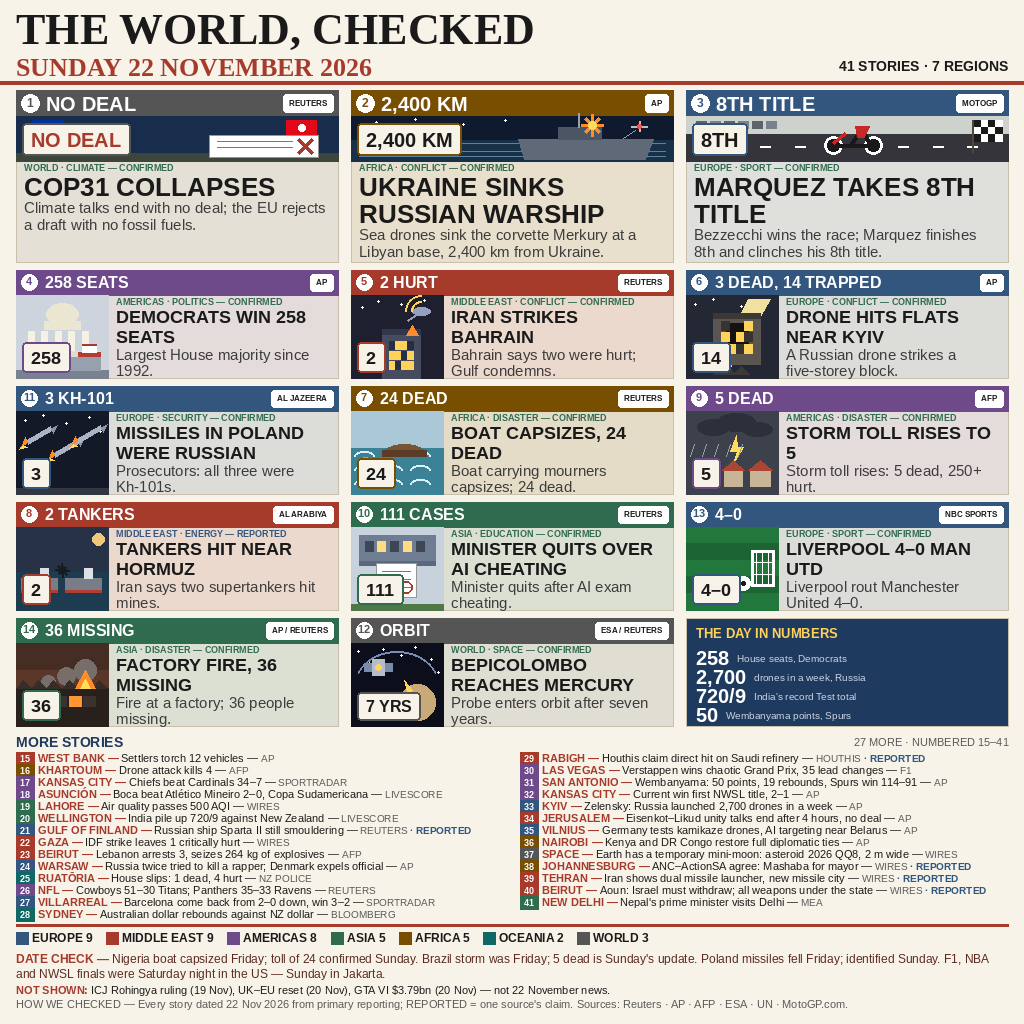
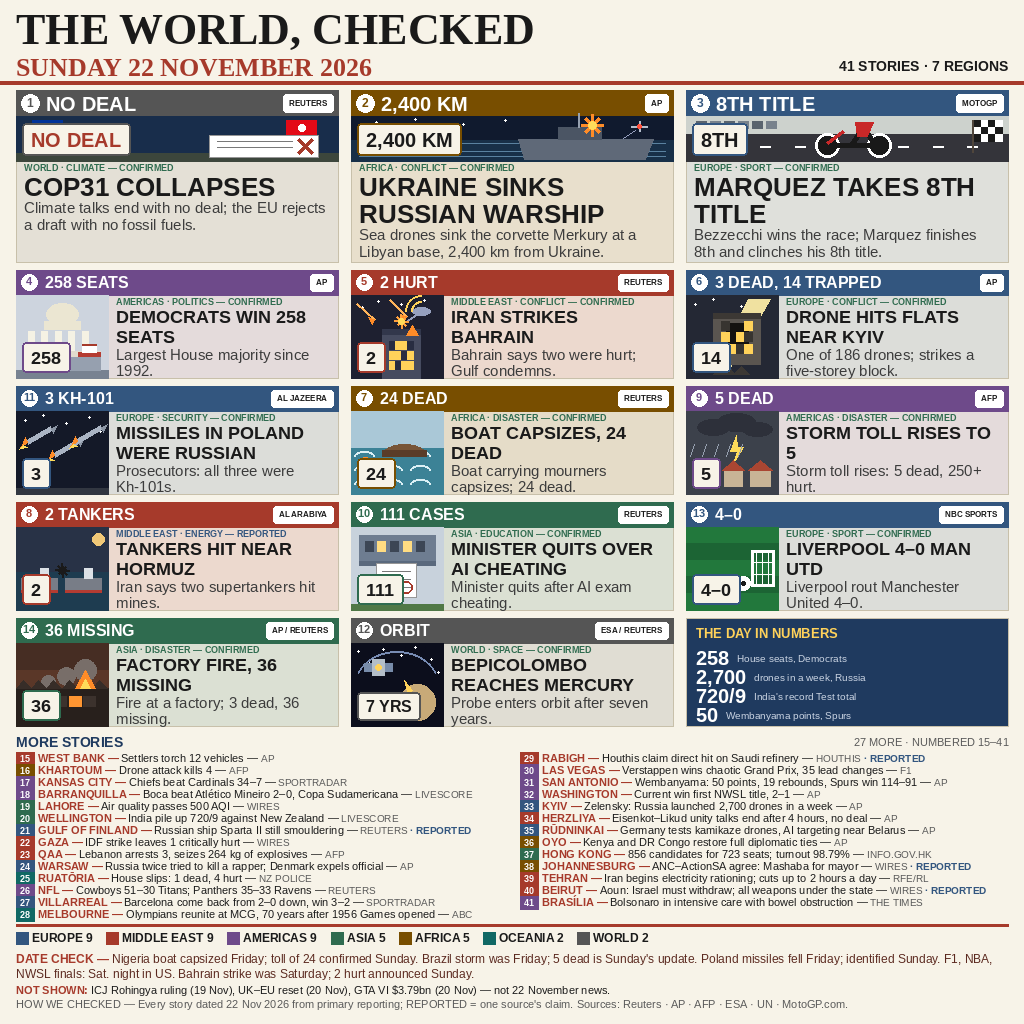
Putaran 1 V1-fresh: 6 label kota diperbaiki, 4 swap konsensus rank 1-3, DATE CHECK Bahrain, 3 dead Cikande, 186 drone

diff --git a/render.py b/render.py
@@ -13,10 +13,10 @@ Layout (NEW, unlike rank 1-3 and unlike V1):
   footer: region strip + DATE CHECK + NOT SHOWN + HOW WE CHECKED.
 No map, no timeline strip, no big-number strip (all three were in V1
 and in rank 1-3). 41 verified stories, from notes/sumber-V1fresh.md.
-Region counts counted from the per-story Wil column of that file:
-EU 9, ME 9, AM 8, AS 5, AF 5, OC 2, WORLD 3 (its summary line says
-EU 10 / WORLD 2; the per-row table is the primary data, so the strip
-prints the counted 9 / 3 and the discrepancy is noted in STORIES.md).
+Region counts counted from the per-story Wil column of that file
+(putaran 1: EU 9, ME 9, AM 9, AS 5, AF 5, OC 2, WORLD 2 — swaps #37
+WORLD->AS and #41 AS->AM; the old summary line EU 9 / WORLD 3 is
+superseded, see STORIES.md).
 """
 import os
 import sys
@@ -152,7 +152,7 @@ GRID = [
     {"n": 6, "region": "EU", "place": "DYMER",
      "title": "DRONE HITS FLATS NEAR KYIV", "value": "3 DEAD, 14 TRAPPED",
      "num": "14", "field": "CONFLICT", "status": "CONFIRMED", "source": "AP",
-     "summary": "A Russian drone strikes a five-storey block.", "art": "dymer"},
+     "summary": "One of 186 drones; strikes a five-storey block.", "art": "dymer"},
     {"n": 11, "region": "EU", "place": "LUBLIN",
      "title": "MISSILES IN POLAND WERE RUSSIAN", "value": "3 KH-101",
      "num": "3", "field": "SECURITY", "status": "CONFIRMED",
@@ -182,7 +182,7 @@ GRID = [
     {"n": 14, "region": "AS", "place": "CIKANDE",
      "title": "FACTORY FIRE, 36 MISSING", "value": "36 MISSING", "num": "36",
      "field": "DISASTER", "status": "CONFIRMED", "source": "AP / REUTERS",
-     "summary": "Fire at a factory; 36 people missing.", "art": "cikande"},
+     "summary": "Fire at a factory; 3 dead, 36 missing.", "art": "cikande"},
     {"n": 12, "region": "WORLD", "place": "MERCURY",
      "title": "BEPICOLOMBO REACHES MERCURY", "value": "ORBIT", "num": "7 YRS",
      "field": "SPACE", "status": "CONFIRMED", "source": "ESA / REUTERS",
@@ -198,7 +198,7 @@ BRIEFS = [
      "fact": "Drone attack kills 4", "source": "AFP", "status": "CONFIRMED"},
     {"n": 17, "region": "AM", "city": "KANSAS CITY",
      "fact": "Chiefs beat Cardinals 34–7", "source": "SPORTRADAR", "status": "CONFIRMED"},
-    {"n": 18, "region": "AM", "city": "ASUNCIÓN",
+    {"n": 18, "region": "AM", "city": "BARRANQUILLA",
      "fact": "Boca beat Atlético Mineiro 2–0, Copa Sudamericana",
      "source": "LIVESCORE", "status": "CONFIRMED"},
     {"n": 19, "region": "AS", "city": "LAHORE",
@@ -212,7 +212,7 @@ BRIEFS = [
     {"n": 22, "region": "ME", "city": "GAZA",
      "fact": "IDF strike leaves 1 critically hurt", "source": "WIRES",
      "status": "CONFIRMED"},
-    {"n": 23, "region": "ME", "city": "BEIRUT",
+    {"n": 23, "region": "ME", "city": "QAA",
      "fact": "Lebanon arrests 3, seizes 264 kg of explosives", "source": "AFP",
      "status": "CONFIRMED"},
     {"n": 24, "region": "EU", "city": "WARSAW",
@@ -227,9 +227,9 @@ BRIEFS = [
     {"n": 27, "region": "EU", "city": "VILLARREAL",
      "fact": "Barcelona come back from 2–0 down, win 3–2", "source": "SPORTRADAR",
      "status": "CONFIRMED"},
-    {"n": 28, "region": "OC", "city": "SYDNEY",
-     "fact": "Australian dollar rebounds against NZ dollar", "source": "BLOOMBERG",
-     "status": "CONFIRMED"},
+    {"n": 28, "region": "OC", "city": "MELBOURNE",
+     "fact": "Olympians reunite at MCG, 70 years after 1956 Games opened",
+     "source": "ABC", "status": "CONFIRMED"},
     {"n": 29, "region": "ME", "city": "RABIGH",
      "fact": "Houthis claim direct hit on Saudi refinery", "source": "HOUTHIS",
      "status": "REPORTED"},
@@ -239,36 +239,36 @@ BRIEFS = [
     {"n": 31, "region": "AM", "city": "SAN ANTONIO",
      "fact": "Wembanyama: 50 points, 19 rebounds, Spurs win 114–91",
      "source": "AP", "status": "CONFIRMED"},
-    {"n": 32, "region": "AM", "city": "KANSAS CITY",
+    {"n": 32, "region": "AM", "city": "WASHINGTON",
      "fact": "Current win first NWSL title, 2–1", "source": "AP",
      "status": "CONFIRMED"},
     {"n": 33, "region": "EU", "city": "KYIV",
      "fact": "Zelensky: Russia launched 2,700 drones in a week", "source": "AP",
      "status": "CONFIRMED"},
-    {"n": 34, "region": "ME", "city": "JERUSALEM",
+    {"n": 34, "region": "ME", "city": "HERZLIYA",
      "fact": "Eisenkot–Likud unity talks end after 4 hours, no deal",
      "source": "AP", "status": "CONFIRMED"},
-    {"n": 35, "region": "EU", "city": "VILNIUS",
+    {"n": 35, "region": "EU", "city": "RŪDNINKAI",
      "fact": "Germany tests kamikaze drones, AI targeting near Belarus",
      "source": "AP", "status": "CONFIRMED"},
-    {"n": 36, "region": "AF", "city": "NAIROBI",
+    {"n": 36, "region": "AF", "city": "OYO",
      "fact": "Kenya and DR Congo restore full diplomatic ties", "source": "AP",
      "status": "CONFIRMED"},
-    {"n": 37, "region": "WORLD", "city": "SPACE",
-     "fact": "Earth has a temporary mini-moon: asteroid 2026 QQ8, 2 m wide",
-     "source": "WIRES", "status": "CONFIRMED"},
+    {"n": 37, "region": "AS", "city": "HONG KONG",
+     "fact": "856 candidates for 723 seats; turnout 98.79%",
+     "source": "INFO.GOV.HK", "status": "CONFIRMED"},
     {"n": 38, "region": "AF", "city": "JOHANNESBURG",
      "fact": "ANC–ActionSA agree: Mashaba for mayor",
      "source": "WIRES", "status": "REPORTED"},
     {"n": 39, "region": "ME", "city": "TEHRAN",
-     "fact": "Iran shows dual missile launcher, new missile city",
-     "source": "WIRES", "status": "REPORTED"},
+     "fact": "Iran begins electricity rationing; cuts up to 2 hours a day",
+     "source": "RFE/RL", "status": "CONFIRMED"},
     {"n": 40, "region": "ME", "city": "BEIRUT",
      "fact": "Aoun: Israel must withdraw; all weapons under the state",
      "source": "WIRES", "status": "REPORTED"},
-    {"n": 41, "region": "AS", "city": "NEW DELHI",
-     "fact": "Nepal's prime minister visits Delhi", "source": "MEA",
-     "status": "CONFIRMED"},
+    {"n": 41, "region": "AM", "city": "BRASÍLIA",
+     "fact": "Bolsonaro in intensive care with bowel obstruction",
+     "source": "THE TIMES", "status": "CONFIRMED"},
 ]
 
 PANEL = [("258", "House seats, Democrats"),
@@ -276,13 +276,14 @@ PANEL = [("258", "House seats, Democrats"),
          ("720/9", "India's record Test total"),
          ("50", "Wembanyama points, Spurs")]
 
-REGION_COUNTS = {"EU": 9, "ME": 9, "AM": 8, "AS": 5, "AF": 5, "OC": 2,
-                 "WORLD": 3}
+REGION_COUNTS = {"EU": 9, "ME": 9, "AM": 9, "AS": 5, "AF": 5, "OC": 2,
+                 "WORLD": 2}
 
 DATECHECK = ("DATE CHECK — Nigeria boat capsized Friday; toll of 24 confirmed "
              "Sunday. Brazil storm was Friday; 5 dead is Sunday's update. "
-             "Poland missiles fell Friday; identified Sunday. F1, NBA and "
-             "NWSL finals were Saturday night in the US — Sunday in Jakarta.")
+             "Poland missiles fell Friday; identified Sunday. F1, NBA, NWSL "
+             "finals: Sat. night in US. Bahrain strike was Saturday; 2 hurt "
+             "announced Sunday.")
 NOTSHOWN = ("NOT SHOWN: ICJ Rohingya ruling (19 Nov), UK–EU reset (20 Nov), "
             "GTA VI $3.79bn (20 Nov) — not 22 November news.")
 HOWCHECKED = ("HOW WE CHECKED — Every story dated 22 Nov 2026 from primary "
@@ -405,16 +406,18 @@ def paint_marquez(draw, box, st):
         lx = x0 + 6 + i * (w - 12) // 9
         draw.line([lx, y0 + int(h * 0.68), lx + 10, y0 + int(h * 0.68)],
                   fill=WHITE, width=2)
+    # Putaran 1: bike enlarged (wheels r 9 -> 12, wheelbase 40 -> 52)
+    # so the bike reads at card size; rider still never drawn.
     bx, by = x0 + int(w * 0.52), y0 + int(h * 0.66)
-    for wx in (bx - 20, bx + 20):
-        draw.ellipse([wx - 9, by - 9, wx + 9, by + 9], fill=(25, 25, 25),
+    for wx in (bx - 26, bx + 26):
+        draw.ellipse([wx - 12, by - 12, wx + 12, by + 12], fill=(25, 25, 25),
                      outline=WHITE, width=3)
-    draw.line([bx - 20, by, bx + 20, by], fill=(25, 25, 25), width=4)
-    draw.line([bx - 2, by, bx + 8, by - 15], fill=(25, 25, 25), width=4)
-    draw.line([bx + 8, by - 15, bx + 17, by], fill=(25, 25, 25), width=4)
-    draw.polygon([(bx + 2, by - 19), (bx + 16, by - 19), (bx + 11, by - 8),
-                  (bx + 4, by - 8)], fill=(200, 40, 40))
-    draw.line([bx - 20, by - 2, bx - 8, by - 12], fill=(200, 40, 40), width=3)
+    draw.line([bx - 26, by, bx + 26, by], fill=(25, 25, 25), width=5)
+    draw.line([bx - 2, by, bx + 10, by - 18], fill=(25, 25, 25), width=5)
+    draw.line([bx + 10, by - 18, bx + 22, by], fill=(25, 25, 25), width=5)
+    draw.polygon([(bx + 2, by - 23), (bx + 20, by - 23), (bx + 14, by - 9),
+                  (bx + 4, by - 9)], fill=(200, 40, 40))
+    draw.line([bx - 26, by - 2, bx - 10, by - 14], fill=(200, 40, 40), width=3)
     fx = x1 - 36
     draw.line([fx, y0 + 4, fx, y0 + 36], fill=(80, 70, 60), width=2)
     for r in range(3):
@@ -449,6 +452,23 @@ def paint_bahrain(draw, box, st):
     for r in (10, 16):
         draw.arc([dx - r, dy - r, dx + r, dy + r], start=180, end=270,
                  fill=(255, 210, 90), width=2)
+    # Putaran 1: two missile trails in the sky + an impact burst above
+    # the roof, so the strike reads as an attack, not just a night city.
+    import math
+    for (mx0, my0, mx1, my1) in ((0.06, 0.10, 0.26, 0.30),
+                                 (0.42, 0.06, 0.60, 0.26)):
+        draw.line([x0 + w * mx0, y0 + h * my0, x0 + w * mx1, y0 + h * my1],
+                  fill=(255, 180, 90), width=2)
+        draw.polygon([(x0 + w * mx1, y0 + h * my1),
+                      (x0 + w * mx1 - 6, y0 + h * my1 - 2),
+                      (x0 + w * mx1 - 2, y0 + h * my1 + 5)],
+                     fill=(255, 140, 40))
+    ex2, ey2 = bx + bw // 2, by - 8
+    for ang in range(0, 360, 45):
+        x2 = ex2 + int(7 * math.cos(math.radians(ang)))
+        y2 = ey2 + int(7 * math.sin(math.radians(ang)))
+        draw.line([ex2, ey2, x2, y2], fill=(255, 160, 60), width=2)
+    draw.ellipse([ex2 - 3, ey2 - 3, ex2 + 3, ey2 + 3], fill=(255, 220, 90))
     fx, fy = bx + bw - 8, by - 4
     draw.polygon([(fx, fy), (fx - 6, fy + 10), (fx + 6, fy + 10)],
                  fill=(255, 140, 40))

diff --git a/STORIES.md b/STORIES.md
@@ -14,7 +14,7 @@ as Sunday's news.
 | 3 | MARQUEZ TAKES 8TH TITLE | Portimão | Bezzecchi wins the race; Marquez finishes 8th and clinches his 8th premier-class title. | MotoGP.com, Crash.net, Reuters |
 | 4 | DEMOCRATS WIN 258 SEATS | Washington | Largest House majority since 1992; Hubbard beats Foxx by 330 votes after a recount. | AP, CNN, The Times |
 | 5 | IRAN STRIKES BAHRAIN — 2 HURT | Manama | Bahrain says two were hurt; the Gulf condemns the attack. | Reuters |
-| 6 | DRONE HITS FLATS NEAR KYIV — 3 DEAD, 14 TRAPPED | Dymer | A Russian drone strikes a five-storey block in Dymer. | AP |
+| 6 | DRONE HITS FLATS NEAR KYIV — 3 DEAD, 14 TRAPPED | Dymer | One of 186 drones fired overnight; strikes a five-storey block in Dymer. | AP |
 | 7 | BOAT CAPSIZES, 24 DEAD | Bayelsa | Boat carrying mourners capsizes; toll of 24 confirmed Sunday. The boat capsized Friday 20 Nov; the toll of 24 was announced Saturday and reported Sunday. | Reuters, AP, Economic Times |
 | 8 | TANKERS HIT NEAR HORMUZ — 2 TANKERS | Hormuz | Iran says two supertankers hit mines; UKMTO reports a separate tanker incident in the Gulf of Oman. The mine claim is REPORTED (no independent confirmation); the two incidents are different and are not merged. | Al Arabiya, Daily Guardian |
 | 9 | STORM TOLL RISES TO 5 | Tupanciretã | Supercell storm toll rises to 5 dead, 250+ hurt, 8,000 homes damaged. The storm was Friday; 5 dead is Sunday's update. | AFP |
@@ -22,7 +22,7 @@ as Sunday's news.
 | 11 | MISSILES IN POLAND WERE RUSSIAN — 3 KH-101 | Lublin | Prosecutors confirm all three fallen objects were Russian Kh-101 cruise missiles. The missiles fell Friday; identification came Sunday. | Al Jazeera, Live From Europe |
 | 12 | BEPICOLOMBO REACHES MERCURY — ORBIT | Mercury | Probe enters orbit around Mercury after a seven-year journey. | (source V1: ESA / Reuters) |
 | 13 | LIVERPOOL 4–0 MAN UTD | Liverpool | Liverpool rout Manchester United 4–0. | (source V1: NBC Sports) |
-| 14 | FACTORY FIRE, 36 MISSING | Cikande | Fire at a factory in Cikande; 36 people missing. | (source V1: AP / Reuters) |
+| 14 | FACTORY FIRE, 36 MISSING | Cikande | Fire at a factory in Cikande; 3 dead, 36 missing. | (source V1: AP / Reuters) |
 
 ## The 27 MORE STORIES briefs (numbered 15–41 on the page)
 
@@ -41,7 +41,7 @@ as Sunday's news.
 | 25 | House slips in Ruatōria, New Zealand: 1 dead, 4 hurt | OC | CONFIRMED | NZ Police |
 | 26 | NFL: Cowboys 51–30 Titans; Panthers 35–33 Ravens | AM | CONFIRMED | Reuters |
 | 27 | Barcelona come back from 2–0 down to beat Villarreal 3–2 | EU | CONFIRMED | Sportradar |
-| 28 | Australian dollar rebounds against the NZ dollar | OC | CONFIRMED | Bloomberg |
+| 28 | Olympians reunite at the MCG, 70 years after the 1956 Games opened | OC | CONFIRMED | ABC |
 | 29 | Houthis claim a direct hit on Saudi Arabia's Rabigh refinery | ME | REPORTED | Houthis (claim) |
 | 30 | Verstappen wins a chaotic Las Vegas Grand Prix (35 lead changes) | AM | CONFIRMED | F1 |
 | 31 | Wembanyama: 50 points, 19 rebounds as Spurs beat Pelicans 114–91 | AM | CONFIRMED | AP |
@@ -50,21 +50,32 @@ as Sunday's news.
 | 34 | Eisenkot–Likud unity talks end after 4 hours with no deal | ME | CONFIRMED | AP |
 | 35 | Germany tests kamikaze drones and AI targeting in Lithuania, near Belarus | EU | CONFIRMED | AP |
 | 36 | Kenya and DR Congo agree to restore full diplomatic ties | AF | CONFIRMED | AP |
-| 37 | Earth has a temporary mini-moon: asteroid 2026 QQ8, 2 metres wide | WORLD | CONFIRMED | Wires |
+| 37 | Election Committee poll: 856 candidates for 723 seats, turnout 98.79% | AS | CONFIRMED | INFO.GOV.HK |
 | 38 | ANC–ActionSA agree: Mashaba for Johannesburg mayor | AF | REPORTED | Wires |
-| 39 | Iran shows a dual missile launcher and a new underground missile city | ME | REPORTED | Wires |
+| 39 | Iran begins electricity rationing; cuts up to 2 hours a day | ME | CONFIRMED | RFE/RL |
 | 40 | Lebanon's Aoun: Israel must withdraw; all weapons under the state | ME | REPORTED | Wires |
-| 41 | Nepal's prime minister visits Delhi | AS | CONFIRMED | MEA India |
+| 41 | Bolsonaro in intensive care with bowel obstruction | AM | CONFIRMED | The Times |
 
 Region spread (counted from the Wil column above): Europe 9,
-Middle East 9, Americas 8, Asia 5, Africa 5, Oceania 2, World 3 —
+Middle East 9, Americas 9, Asia 5, Africa 5, Oceania 2, World 2 —
 41 stories, 7 regions.
 
-**Count note:** the research file's summary line says EU 10 / WORLD 2,
-but counting its own per-story Wil column gives EU 9 / WORLD 3 (the
-three WORLD stories are #1 COP31, #12 BepiColombo and #37 mini-moon).
-The image prints the counted 9 / 3, so the strip matches the stories
-a reader can count on the page.
+**Count note (putaran 1):** the research file's old summary line said
+EU 10 / WORLD 2, but counting its own per-story Wil column gave
+EU 9 / WORLD 3 (the three WORLD stories were #1 COP31, #12
+BepiColombo and #37 mini-moon). After the putaran 1 swaps (#37
+WORLD→AS, #41 AS→AM) the counted spread is EU 9 · ME 9 · AM 9 ·
+AS 5 · AF 5 · OC 2 · WORLD 2 (the two WORLD stories are #1 COP31
+and #12 BepiColombo). The image prints the counted 9 / 2, so the
+strip matches the stories a reader can count on the page.
+
+**Putaran 1 city fixes (crosscheck F-B1-01–F-B1-06):** #18 ASUNCIÓN →
+BARRANQUILLA (final at Estadio Metropolitano, Barranquilla); #32
+KANSAS CITY → WASHINGTON (final at Audi Field, Washington D.C.);
+#35 VILNIUS → RŪDNINKAI (test range at Rūdninkai, near Belarus);
+#36 NAIROBI → OYO (summit in Oyo, Republic of Congo); #34 JERUSALEM
+→ HERZLIYA (talks at a hotel in Herzliya); #23 BEIRUT → QAA
+(seizure in the Qaa area, eastern Lebanon).
 
 ## DATE CHECK — not Sunday
 
@@ -72,6 +83,7 @@ a reader can count on the page.
 - Brazil storm, 5 dead — storm Friday 20 Nov; 5 dead is Sunday's update.
 - Poland missiles — fell Friday 20 Nov; identified as Kh-101s Sunday.
 - F1, NBA and NWSL finals — Saturday night in the US, Sunday in Jakarta.
+- Bahrain strike, 2 hurt — the strike was Saturday 21 Nov; 2 hurt announced Sunday.
 - NOT SHOWN: ICJ Rohingya ruling (19 Nov), UK–EU reset (20 Nov),
   GTA VI $3.79bn (20 Nov) — not 22 November news.
 
@@ -85,6 +97,25 @@ officers named treason suspects (23 Nov); GTA VI $3.79bn (20 Nov);
 Amazon–Decart $7.5bn (23 Nov); Trump delaying Iran strikes (19 Nov);
 Fred Nile dies (21 Nov); Nigeria boat "29 dead" claim (unverified).
 Each was checked against its primary source before being left out.
+
+## Dropped in putaran 1 — replaced by rank 1–3 consensus stories
+
+All four were verified 22 Nov stories, dropped only for selection
+(C2): each of the four replacements is carried by rank 1, 2 AND 3,
+while none of the four dropped stories appears in any of them.
+
+| # | Dropped story | Replaced by |
+|---|---------------|-------------|
+| 28 | Australian dollar rebounds against the NZ dollar (Sydney) | Olympians reunite at the MCG, 70 years after the 1956 Games opened (Melbourne, ABC) |
+| 37 | Earth has a temporary mini-moon: asteroid 2026 QQ8, 2 metres wide (Space) | Election Committee poll: 856 candidates for 723 seats, turnout 98.79% (Hong Kong, INFO.GOV.HK) |
+| 39 | Iran shows a dual missile launcher and a new underground missile city (Tehran, REPORTED — location undisclosed) | Iran begins electricity rationing; cuts up to 2 hours a day (Tehran, RFE/RL) |
+| 41 | Nepal's prime minister visits Delhi (New Delhi) | Bolsonaro in intensive care with bowel obstruction (Brasília, The Times) |
+
+Also in putaran 1: #6 summary now carries the 186-drones figure
+("One of 186 drones fired overnight"); #14 summary now carries
+"3 dead, 36 missing"; DATE CHECK now discloses the Bahrain strike
+was Saturday. Grid order stays shuffled (neighbours always differ
+in region — coordinator decision, crosscheck F-B1-08 optional).
 
 ## How we checked
 
